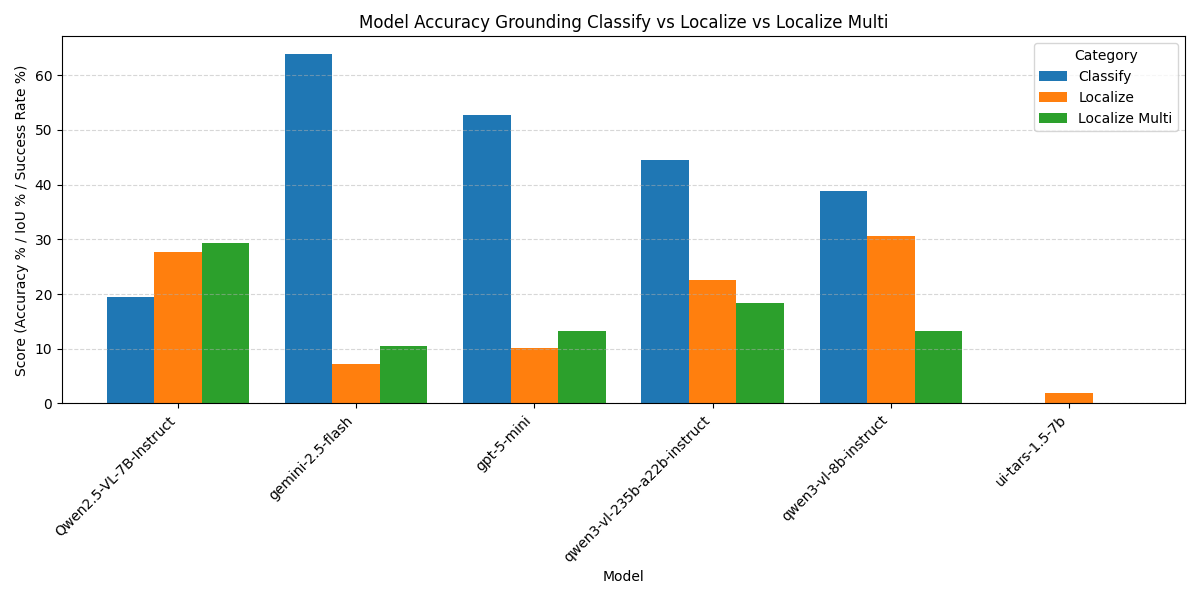
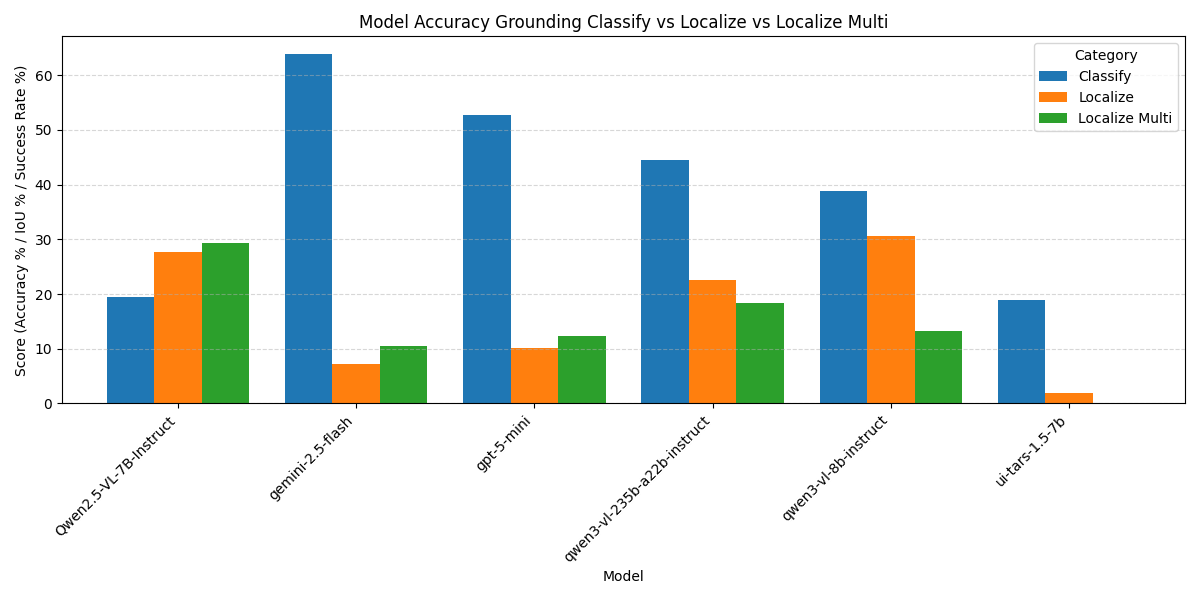
add uitars_classify to bench1

Changed region(s): [[0.8325, 0.48, 0.8942, 0.69], [0.4625, 0.54, 0.5242, 0.57]]

diff --git a/main_benchmark1_grounding.py b/main_benchmark1_grounding.py
@@ -21,6 +21,7 @@ class GroundingBenchmarkType(BenchmarkBase):
     QWEN3_CLASSIFY = 'qwen3_classify'
     QWEN3_LOCALIZE = 'qwen3_localize'
     QWEN3_LOCALIZE_MULTI = 'qwen3_localize_multi'
+    UITARS_CLASSIFY = 'uitars_classify'
     UITARS_LOCALIZE = 'uitars_localize'
     QWEN25_CLASSIFY = 'qwen25_classify'
     QWEN25_LOCALIZE = 'qwen25_localize'
@@ -29,7 +30,7 @@ class GroundingBenchmarkType(BenchmarkBase):
     @override
     def get_system_prompt(self) -> str:
         match self:
-            case GroundingBenchmarkType.QWEN3_CLASSIFY:
+            case GroundingBenchmarkType.QWEN3_CLASSIFY | GroundingBenchmarkType.UITARS_CLASSIFY:
                 return QWEN3_CLASSIFY_SYSTEM_PROMPT
             case GroundingBenchmarkType.QWEN3_LOCALIZE:
                 return QWEN3_LOCALIZE_SYSTEM_PROMPT
@@ -53,7 +54,7 @@ class GroundingBenchmarkType(BenchmarkBase):
         multi_object = base_path / "multi_object"
         
         match self:
-            case GroundingBenchmarkType.QWEN3_CLASSIFY | GroundingBenchmarkType.QWEN25_CLASSIFY:
+            case GroundingBenchmarkType.QWEN3_CLASSIFY | GroundingBenchmarkType.QWEN25_CLASSIFY | GroundingBenchmarkType.UITARS_CLASSIFY:
                 folders = [single_object]
             case GroundingBenchmarkType.QWEN3_LOCALIZE | GroundingBenchmarkType.QWEN25_LOCALIZE:
                 folders = [single_object, multi_object]
@@ -117,7 +118,7 @@ which converts to:
     parts: list[BoundingBox] = []
     for part in data.get("parts", []):
         match benchmark_type:
-            case GroundingBenchmarkType.QWEN3_CLASSIFY | GroundingBenchmarkType.QWEN25_CLASSIFY:
+            case GroundingBenchmarkType.QWEN3_CLASSIFY | GroundingBenchmarkType.QWEN25_CLASSIFY | GroundingBenchmarkType.UITARS_CLASSIFY:
                 part_name = parse_classification(part)
                 return part_name if part_name else "NONE"
             case GroundingBenchmarkType.QWEN3_LOCALIZE | GroundingBenchmarkType.UITARS_LOCALIZE | GroundingBenchmarkType.QWEN3_LOCALIZE_MULTI | GroundingBenchmarkType.QWEN25_LOCALIZE | GroundingBenchmarkType.QWEN25_LOCALIZE_MULTI:
@@ -235,7 +236,7 @@ if __name__ == "__main__":
         result: SingleTaskResult
 
         match benchmark:
-            case GroundingBenchmarkType.QWEN3_CLASSIFY | GroundingBenchmarkType.QWEN25_CLASSIFY:
+            case GroundingBenchmarkType.QWEN3_CLASSIFY | GroundingBenchmarkType.QWEN25_CLASSIFY | GroundingBenchmarkType.UITARS_CLASSIFY:
                 assert isinstance(ground_truth, str)
                 response = cli.model.generate_model_response(input_png, system_prompt=system_prompt) or ""
                 response = cli.model.parse_response_text(response)
